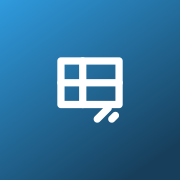
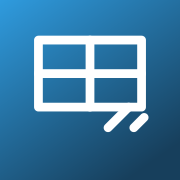
Add files via upload

Changed region(s): [[0.1667, 0.1944, 0.8333, 0.75]]

diff --git a/index.html b/index.html
@@ -68,13 +68,13 @@
   .header-row{display:flex; align-items:center; justify-content:space-between; gap:10px;}
   .brand{display:flex; align-items:center; gap:10px; min-width:0;}
   .brand-mark{
-    width:34px;height:34px;border-radius:9px;
+    width:36px;height:36px;border-radius:9px;
     background:linear-gradient(160deg, var(--blue), var(--blue-deep));
     display:flex;align-items:center;justify-content:center;
     box-shadow: inset 0 0 0 1px rgba(255,255,255,0.25);
     flex-shrink:0;
   }
-  .brand-mark svg{width:19px;height:19px;}
+  .brand-mark svg{width:26px;height:26px;}
   .brand-text{min-width:0;}
   .brand h1{font-size:1.1875rem; font-weight:800; overflow:hidden; text-overflow:ellipsis; white-space:nowrap;}
   .brand .sub{font-size:0.6875rem; color:#A9C4D8; font-weight:600; letter-spacing:.04em; text-transform:uppercase; margin-top:1px; overflow:hidden; text-overflow:ellipsis; white-space:nowrap;}
@@ -317,7 +317,7 @@
   <div class="header-row">
     <div class="brand">
       <div class="brand-mark">
-        <svg viewBox="0 0 24 24" fill="none" stroke="#fff" stroke-width="2" stroke-linecap="round"><path d="M4 4h16v12H4z"/><path d="M4 10h16M10 4v12"/><path d="M14 20l3-3M18 20l1-1"/></svg>
+        <svg viewBox="0 0 24 24" fill="none" stroke="#fff" stroke-width="1.7" stroke-linecap="round" stroke-linejoin="round"><path d="M2 3h20v13H2z"/><path d="M2 9.5h20M12 3v13"/><path d="M15.5 20l4-4M20.5 20l2-2"/></svg>
       </div>
       <div class="brand-text">
         <h1>Round Book</h1>
@@ -2352,7 +2352,7 @@ function setTheme(name){
 function openSettings(){
   openSheet(`
     <div class="sheet-head">
-      <h2>Settings</h2>
+      <h2 style="flex:1; min-width:0;">Settings</h2>
       ${helpIconBtn('settings')}
       <button class="sheet-close" onclick="closeSheet()">✕</button>
     </div>
@@ -2457,7 +2457,7 @@ function resetTemplates(){
 function openReports(){
   openSheet(`
     <div class="sheet-head">
-      <h2>Print reports</h2>
+      <h2 style="flex:1; min-width:0;">Print reports</h2>
       ${helpIconBtn('reports')}
       <button class="sheet-close" onclick="closeSheet()">✕</button>
     </div>
@@ -3538,7 +3538,7 @@ function openBackup(){
   const lastText = days === Infinity ? "You haven't backed up yet" : days === 0 ? "Backed up today" : `Last backup: ${days} day${days===1?'':'s'} ago`;
   openSheet(`
     <div class="sheet-head">
-      <h2>Backup &amp; restore</h2>
+      <h2 style="flex:1; min-width:0;">Backup &amp; restore</h2>
       ${helpIconBtn('backup')}
       <button class="sheet-close" onclick="closeSheet()">✕</button>
     </div>
